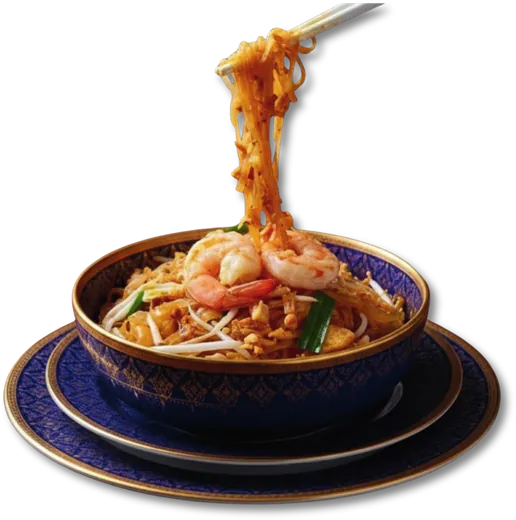
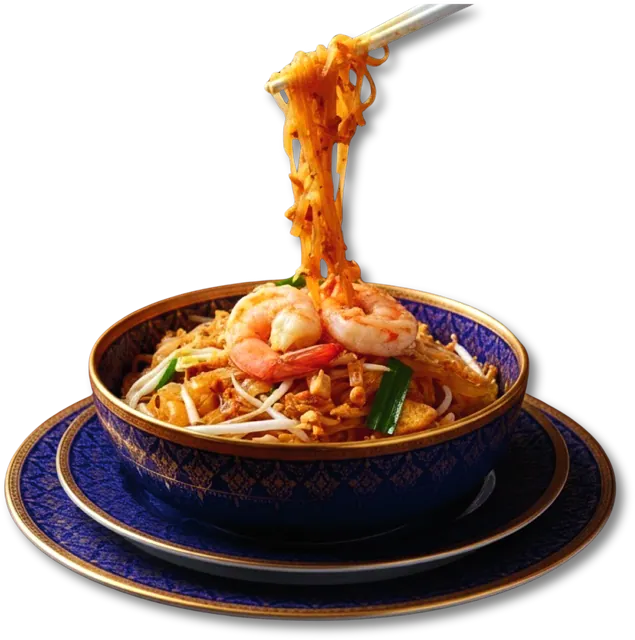
รูมเซอร์วิส: ปรับราคา 99→100, 85→80 + อัปเกรดรูปให้สวยขึ้น
- ราคาใหม่ตามเจ้าของ: จานหลักแกง/ผัดไทย ฿100 · ข้าวผัด/ไข่เจียว/ผัดซีอิ๊ว ฿80
  (อัปเดตทั้งการ์ด ข้อความออร์เดอร์ และ JSON-LD)
- รูปอาหาร: ส่งออกใหม่ความละเอียด 720px + ปรับสีอิ่ม/คอนทราสต์/ความคมให้น่ากินขึ้น
- เวทีรูป: จานรองวงกลม + สปอตไลต์นวลๆ + เงาใต้จาน ให้ภาพดูมีมิติ
  และ hover แล้วรูปขยับเบาๆ
- e2e: เช็คขั้นต่ำ ฿100 เปลี่ยนไปใช้เครื่องดื่ม ฿40 (มัสมั่น ฿100 ถึงขั้นต่ำพอดีแล้ว)

Claude-Session: https://claude.ai/code/session_012fKZaijRoSM6ejsdfdSYhf

diff --git a/services.html b/services.html
@@ -31,14 +31,14 @@
     {
       "@type": "MenuSection", "name": "จานหลัก / Main Dish",
       "hasMenuItem": [
-      { "@type": "MenuItem", "name": "ข้าวแกงมัสมั่นไก่ (Massaman Curry with Chicken & Rice)", "offers": { "@type": "Offer", "price": "99", "priceCurrency": "THB" } },
-      { "@type": "MenuItem", "name": "ข้าวแกงเขียวหวานไก่ (Green Curry with Chicken & Rice)", "offers": { "@type": "Offer", "price": "99", "priceCurrency": "THB" } },
-      { "@type": "MenuItem", "name": "ต้มข่าไก่ + ข้าวสวย (Tom Kha Gai (Chicken in Coconut Soup) & Rice)", "offers": { "@type": "Offer", "price": "99", "priceCurrency": "THB" } },
-      { "@type": "MenuItem", "name": "ข้าวพะแนงหมู (Panang Curry with Pork & Rice)", "offers": { "@type": "Offer", "price": "99", "priceCurrency": "THB" } },
-      { "@type": "MenuItem", "name": "ข้าวผัด (Fried Rice)", "offers": { "@type": "Offer", "price": "85", "priceCurrency": "THB" } },
-      { "@type": "MenuItem", "name": "ข้าวไข่เจียว (Thai Style Omelette with Rice)", "offers": { "@type": "Offer", "price": "85", "priceCurrency": "THB" } },
-      { "@type": "MenuItem", "name": "ผัดซีอิ๊ว (Pad See Ew — Stir-fried Noodles)", "offers": { "@type": "Offer", "price": "85", "priceCurrency": "THB" } },
-      { "@type": "MenuItem", "name": "ผัดไทย (Pad Thai)", "offers": { "@type": "Offer", "price": "99", "priceCurrency": "THB" } }
+      { "@type": "MenuItem", "name": "ข้าวแกงมัสมั่นไก่ (Massaman Curry with Chicken & Rice)", "offers": { "@type": "Offer", "price": "100", "priceCurrency": "THB" } },
+      { "@type": "MenuItem", "name": "ข้าวแกงเขียวหวานไก่ (Green Curry with Chicken & Rice)", "offers": { "@type": "Offer", "price": "100", "priceCurrency": "THB" } },
+      { "@type": "MenuItem", "name": "ต้มข่าไก่ + ข้าวสวย (Tom Kha Gai (Chicken in Coconut Soup) & Rice)", "offers": { "@type": "Offer", "price": "100", "priceCurrency": "THB" } },
+      { "@type": "MenuItem", "name": "ข้าวพะแนงหมู (Panang Curry with Pork & Rice)", "offers": { "@type": "Offer", "price": "100", "priceCurrency": "THB" } },
+      { "@type": "MenuItem", "name": "ข้าวผัด (Fried Rice)", "offers": { "@type": "Offer", "price": "80", "priceCurrency": "THB" } },
+      { "@type": "MenuItem", "name": "ข้าวไข่เจียว (Thai Style Omelette with Rice)", "offers": { "@type": "Offer", "price": "80", "priceCurrency": "THB" } },
+      { "@type": "MenuItem", "name": "ผัดซีอิ๊ว (Pad See Ew — Stir-fried Noodles)", "offers": { "@type": "Offer", "price": "80", "priceCurrency": "THB" } },
+      { "@type": "MenuItem", "name": "ผัดไทย (Pad Thai)", "offers": { "@type": "Offer", "price": "100", "priceCurrency": "THB" } }
       ]
     },
     {
@@ -84,9 +84,18 @@
   box-shadow:0 4px 16px rgba(62,47,35,0.06); display:flex; flex-direction:column;
   transition:transform .18s ease, box-shadow .18s ease}
 .rs-card:hover{transform:translateY(-3px); box-shadow:0 12px 26px rgba(62,47,35,0.12)}
-.rs-art{position:relative; background:#f7f1e6; background-image:radial-gradient(rgba(138,90,52,.06) 1.2px,transparent 1.2px); background-size:20px 20px;
-  padding:0.9rem; height:185px; display:flex; align-items:center; justify-content:center}
-.rs-art img{max-height:165px; width:auto; max-width:92%; object-fit:contain; display:block; filter:drop-shadow(0 8px 12px rgba(62,47,35,.18))}
+.rs-art{position:relative; overflow:hidden;
+  background:linear-gradient(160deg,#fbf6ec 0%,#f5edde 55%,#efe3cd 100%);
+  padding:0.9rem; height:195px; display:flex; align-items:center; justify-content:center}
+/* จานรองวงกลม + สปอตไลต์นวลๆ หลังรูปอาหาร ให้ภาพดูมีเวทีมีมิติ */
+.rs-art::before{content:""; position:absolute; width:230px; height:230px; border-radius:50%;
+  background:radial-gradient(circle at 50% 42%, #fffdf8 0%, #fdf8ee 45%, rgba(253,248,238,0) 72%);
+  box-shadow:inset 0 0 0 1px rgba(138,90,52,.07)}
+.rs-art::after{content:""; position:absolute; left:50%; bottom:14px; transform:translateX(-50%);
+  width:150px; height:26px; border-radius:50%; background:radial-gradient(ellipse at center, rgba(62,47,35,.16), rgba(62,47,35,0) 68%)}
+.rs-art img{position:relative; z-index:1; max-height:172px; width:auto; max-width:92%; object-fit:contain; display:block;
+  filter:drop-shadow(0 10px 14px rgba(62,47,35,.22)); transition:transform .28s ease}
+.rs-card:hover .rs-art img{transform:scale(1.05) translateY(-3px)}
 .rs-badge{position:absolute; top:10px; left:10px; background:var(--gold-dark); color:#fff8ef; font-family:"Prompt",sans-serif;
   font-size:0.68rem; font-weight:700; letter-spacing:0.06em; padding:0.25rem 0.6rem; border-radius:999px; box-shadow:0 3px 8px rgba(62,47,35,.25)}
 .rs-body{padding:0.9rem 1.1rem 1.1rem; display:flex; flex-direction:column; flex:1}
@@ -145,8 +154,10 @@
   background:var(--gold-dark); color:#fff; font-family:"Prompt",sans-serif; font-weight:700; font-size:0.9rem; margin-bottom:0.5rem}
 .rs-step p{font-size:0.86rem; color:var(--text); line-height:1.6}
 @media (max-width:640px){ .rs-grid{grid-template-columns:1fr 1fr; gap:0.7rem}
-  .rs-art{height:135px; padding:0.6rem}
-  .rs-art img{max-height:118px}
+  .rs-art{height:140px; padding:0.6rem}
+  .rs-art::before{width:150px; height:150px}
+  .rs-art::after{width:100px; height:18px; bottom:10px}
+  .rs-art img{max-height:122px}
   .rs-body{padding:0.65rem 0.7rem 0.8rem}
   .rs-body h3{font-size:0.92rem}
   .rs-desc{display:none}
@@ -187,86 +198,86 @@
 <div class="rs-wrap">
   <div class="rs-sec"><h2 data-th="จานหลัก · Main Dish" data-en="Main Dish · จานหลัก">จานหลัก · Main Dish</h2></div>
   <div class="rs-grid">
-    <article class="rs-card" data-id="massaman" data-price="99" data-name-th="ข้าวแกงมัสมั่นไก่" data-name-en="Massaman Curry with Chicken &amp; Rice">
-      <div class="rs-art"><img src="images/services/massaman.webp" alt="ข้าวแกงมัสมั่นไก่ — Massaman Curry with Chicken &amp; Rice" width="520" height="414" loading="lazy" decoding="async"></div>
+    <article class="rs-card" data-id="massaman" data-price="100" data-name-th="ข้าวแกงมัสมั่นไก่" data-name-en="Massaman Curry with Chicken &amp; Rice">
+      <div class="rs-art"><img src="images/services/massaman.webp" alt="ข้าวแกงมัสมั่นไก่ — Massaman Curry with Chicken &amp; Rice" width="640" height="510" loading="lazy" decoding="async"></div>
       <div class="rs-body">
         <h3 data-th="ข้าวแกงมัสมั่นไก่" data-en="Massaman Curry with Chicken &amp; Rice">ข้าวแกงมัสมั่นไก่</h3>
         <div class="rs-en" data-th="Massaman Curry with Chicken &amp; Rice" data-en="ข้าวแกงมัสมั่นไก่">Massaman Curry with Chicken &amp; Rice</div>
         <p class="rs-desc" data-th="แกงไทยชื่อดังระดับโลก เข้มข้นหอมมัน หวานอ่อนๆ ไก่นุ่มกับมันฝรั่ง (ไม่เผ็ด)" data-en="World-famous Thai curry. Rich, creamy, and mildly sweet with chicken and potatoes. (Non-spicy)">แกงไทยชื่อดังระดับโลก เข้มข้นหอมมัน หวานอ่อนๆ ไก่นุ่มกับมันฝรั่ง (ไม่เผ็ด)</p>
-        <div class="rs-foot"><span class="rs-price">฿99</span>
+        <div class="rs-foot"><span class="rs-price">฿100</span>
           <div class="qty" data-id="massaman"><button type="button" class="qminus" aria-label="ลดจำนวน">−</button><b class="qn">0</b><button type="button" class="qplus" aria-label="เพิ่มจำนวน">+</button></div></div>
       </div>
     </article>
-    <article class="rs-card" data-id="green-curry" data-price="99" data-name-th="ข้าวแกงเขียวหวานไก่" data-name-en="Green Curry with Chicken &amp; Rice">
-      <div class="rs-art"><img src="images/services/green-curry.webp" alt="ข้าวแกงเขียวหวานไก่ — Green Curry with Chicken &amp; Rice" width="520" height="462" loading="lazy" decoding="async"></div>
+    <article class="rs-card" data-id="green-curry" data-price="100" data-name-th="ข้าวแกงเขียวหวานไก่" data-name-en="Green Curry with Chicken &amp; Rice">
+      <div class="rs-art"><img src="images/services/green-curry.webp" alt="ข้าวแกงเขียวหวานไก่ — Green Curry with Chicken &amp; Rice" width="640" height="568" loading="lazy" decoding="async"></div>
       <div class="rs-body">
         <h3 data-th="ข้าวแกงเขียวหวานไก่" data-en="Green Curry with Chicken &amp; Rice">ข้าวแกงเขียวหวานไก่</h3>
         <div class="rs-en" data-th="Green Curry with Chicken &amp; Rice" data-en="ข้าวแกงเขียวหวานไก่">Green Curry with Chicken &amp; Rice</div>
         <p class="rs-desc" data-th="แกงเขียวหวานตำรับไทยแท้ กะทิหอมสมุนไพร (เผ็ดกลาง)" data-en="Authentic Thai green curry with coconut milk and aromatic herbs. (Spicy level: medium)">แกงเขียวหวานตำรับไทยแท้ กะทิหอมสมุนไพร (เผ็ดกลาง)</p>
-        <div class="rs-foot"><span class="rs-price">฿99</span>
+        <div class="rs-foot"><span class="rs-price">฿100</span>
           <div class="qty" data-id="green-curry"><button type="button" class="qminus" aria-label="ลดจำนวน">−</button><b class="qn">0</b><button type="button" class="qplus" aria-label="เพิ่มจำนวน">+</button></div></div>
       </div>
     </article>
-    <article class="rs-card" data-id="tom-kha" data-price="99" data-name-th="ต้มข่าไก่ + ข้าวสวย" data-name-en="Tom Kha Gai (Chicken in Coconut Soup) &amp; Rice">
-      <div class="rs-art"><img src="images/services/tom-kha.webp" alt="ต้มข่าไก่ + ข้าวสวย — Tom Kha Gai (Chicken in Coconut Soup) &amp; Rice" width="520" height="518" loading="lazy" decoding="async"></div>
+    <article class="rs-card" data-id="tom-kha" data-price="100" data-name-th="ต้มข่าไก่ + ข้าวสวย" data-name-en="Tom Kha Gai (Chicken in Coconut Soup) &amp; Rice">
+      <div class="rs-art"><img src="images/services/tom-kha.webp" alt="ต้มข่าไก่ + ข้าวสวย — Tom Kha Gai (Chicken in Coconut Soup) &amp; Rice" width="640" height="637" loading="lazy" decoding="async"></div>
       <div class="rs-body">
         <h3 data-th="ต้มข่าไก่ + ข้าวสวย" data-en="Tom Kha Gai (Chicken in Coconut Soup) &amp; Rice">ต้มข่าไก่ + ข้าวสวย</h3>
         <div class="rs-en" data-th="Tom Kha Gai (Chicken in Coconut Soup) &amp; Rice" data-en="ต้มข่าไก่ + ข้าวสวย">Tom Kha Gai (Chicken in Coconut Soup) &amp; Rice</div>
         <p class="rs-desc" data-th="ซุปกะทิหอมข่า ใบมะกรูด มะนาว ซดคล่องคอ สดชื่น (เผ็ดน้อย)" data-en="Aromatic coconut soup with chicken, galangal, and lime. Refreshing and comforting. (Mild)">ซุปกะทิหอมข่า ใบมะกรูด มะนาว ซดคล่องคอ สดชื่น (เผ็ดน้อย)</p>
-        <div class="rs-foot"><span class="rs-price">฿99</span>
+        <div class="rs-foot"><span class="rs-price">฿100</span>
           <div class="qty" data-id="tom-kha"><button type="button" class="qminus" aria-label="ลดจำนวน">−</button><b class="qn">0</b><button type="button" class="qplus" aria-label="เพิ่มจำนวน">+</button></div></div>
       </div>
     </article>
-    <article class="rs-card" data-id="panang" data-price="99" data-name-th="ข้าวพะแนงหมู" data-name-en="Panang Curry with Pork &amp; Rice">
-      <div class="rs-art"><img src="images/services/panang.webp" alt="ข้าวพะแนงหมู — Panang Curry with Pork &amp; Rice" width="507" height="520" loading="lazy" decoding="async"></div>
+    <article class="rs-card" data-id="panang" data-price="100" data-name-th="ข้าวพะแนงหมู" data-name-en="Panang Curry with Pork &amp; Rice">
+      <div class="rs-art"><img src="images/services/panang.webp" alt="ข้าวพะแนงหมู — Panang Curry with Pork &amp; Rice" width="624" height="640" loading="lazy" decoding="async"></div>
       <div class="rs-body">
         <h3 data-th="ข้าวพะแนงหมู" data-en="Panang Curry with Pork &amp; Rice">ข้าวพะแนงหมู</h3>
         <div class="rs-en" data-th="Panang Curry with Pork &amp; Rice" data-en="ข้าวพะแนงหมู">Panang Curry with Pork &amp; Rice</div>
         <p class="rs-desc" data-th="พะแนงเข้มข้น หมูนุ่ม หอมใบมะกรูด (เผ็ดกลาง)" data-en="Thick and rich red curry with tender pork and kaffir lime leaves. (Spicy level: medium)">พะแนงเข้มข้น หมูนุ่ม หอมใบมะกรูด (เผ็ดกลาง)</p>
-        <div class="rs-foot"><span class="rs-price">฿99</span>
+        <div class="rs-foot"><span class="rs-price">฿100</span>
           <div class="qty" data-id="panang"><button type="button" class="qminus" aria-label="ลดจำนวน">−</button><b class="qn">0</b><button type="button" class="qplus" aria-label="เพิ่มจำนวน">+</button></div></div>
       </div>
     </article>
-    <article class="rs-card" data-id="fried-rice" data-price="85" data-name-th="ข้าวผัด" data-name-en="Fried Rice" data-variants="หมู|Pork,ไก่|Chicken,เบคอน|Bacon">
-      <div class="rs-art"><img src="images/services/fried-rice.webp" alt="ข้าวผัด — Fried Rice" width="520" height="334" loading="lazy" decoding="async"></div>
+    <article class="rs-card" data-id="fried-rice" data-price="80" data-name-th="ข้าวผัด" data-name-en="Fried Rice" data-variants="หมู|Pork,ไก่|Chicken,เบคอน|Bacon">
+      <div class="rs-art"><img src="images/services/fried-rice.webp" alt="ข้าวผัด — Fried Rice" width="640" height="411" loading="lazy" decoding="async"></div>
       <div class="rs-body">
         <h3 data-th="ข้าวผัด" data-en="Fried Rice">ข้าวผัด</h3>
         <div class="rs-en" data-th="Fried Rice" data-en="ข้าวผัด">Fried Rice</div>
         <p class="rs-desc" data-th="ข้าวผัดไข่สไตล์ไทย หอมกระทะ เลือกหมู ไก่ หรือเบคอน (ไม่เผ็ด)" data-en="Thai style fried rice with egg. Choose pork, chicken, or bacon. (Non-spicy)">ข้าวผัดไข่สไตล์ไทย หอมกระทะ เลือกหมู ไก่ หรือเบคอน (ไม่เผ็ด)</p>
         <select class="rs-var" data-id="fried-rice" aria-label="เลือกแบบ"></select>
-        <div class="rs-foot"><span class="rs-price">฿85</span>
+        <div class="rs-foot"><span class="rs-price">฿80</span>
           <div class="qty" data-id="fried-rice"><button type="button" class="qminus" aria-label="ลดจำนวน">−</button><b class="qn">0</b><button type="button" class="qplus" aria-label="เพิ่มจำนวน">+</button></div></div>
       </div>
     </article>
-    <article class="rs-card" data-id="omelette" data-price="85" data-name-th="ข้าวไข่เจียว" data-name-en="Thai Style Omelette with Rice">
-      <div class="rs-art"><img src="images/services/omelette.webp" alt="ข้าวไข่เจียว — Thai Style Omelette with Rice" width="520" height="386" loading="lazy" decoding="async"></div>
+    <article class="rs-card" data-id="omelette" data-price="80" data-name-th="ข้าวไข่เจียว" data-name-en="Thai Style Omelette with Rice">
+      <div class="rs-art"><img src="images/services/omelette.webp" alt="ข้าวไข่เจียว — Thai Style Omelette with Rice" width="640" height="475" loading="lazy" decoding="async"></div>
       <div class="rs-body">
         <h3 data-th="ข้าวไข่เจียว" data-en="Thai Style Omelette with Rice">ข้าวไข่เจียว</h3>
         <div class="rs-en" data-th="Thai Style Omelette with Rice" data-en="ข้าวไข่เจียว">Thai Style Omelette with Rice</div>
         <p class="rs-desc" data-th="ไข่เจียวฟูขอบกรอบ ราดข้าวสวยร้อนๆ (ไม่เผ็ด)" data-en="Crispy and fluffy Thai omelette over steamed rice. (Non-spicy)">ไข่เจียวฟูขอบกรอบ ราดข้าวสวยร้อนๆ (ไม่เผ็ด)</p>
-        <div class="rs-foot"><span class="rs-price">฿85</span>
+        <div class="rs-foot"><span class="rs-price">฿80</span>
           <div class="qty" data-id="omelette"><button type="button" class="qminus" aria-label="ลดจำนวน">−</button><b class="qn">0</b><button type="button" class="qplus" aria-label="เพิ่มจำนวน">+</button></div></div>
       </div>
     </article>
-    <article class="rs-card" data-id="pad-see-ew" data-price="85" data-name-th="ผัดซีอิ๊ว" data-name-en="Pad See Ew — Stir-fried Noodles" data-variants="หมู|Pork,ไก่|Chicken,ผัก|Veggie">
-      <div class="rs-art"><img src="images/services/pad-see-ew.webp" alt="ผัดซีอิ๊ว — Pad See Ew — Stir-fried Noodles" width="520" height="336" loading="lazy" decoding="async"></div>
+    <article class="rs-card" data-id="pad-see-ew" data-price="80" data-name-th="ผัดซีอิ๊ว" data-name-en="Pad See Ew — Stir-fried Noodles" data-variants="หมู|Pork,ไก่|Chicken,ผัก|Veggie">
+      <div class="rs-art"><img src="images/services/pad-see-ew.webp" alt="ผัดซีอิ๊ว — Pad See Ew — Stir-fried Noodles" width="640" height="413" loading="lazy" decoding="async"></div>
       <div class="rs-body">
         <h3 data-th="ผัดซีอิ๊ว" data-en="Pad See Ew — Stir-fried Noodles">ผัดซีอิ๊ว</h3>
         <div class="rs-en" data-th="Pad See Ew — Stir-fried Noodles" data-en="ผัดซีอิ๊ว">Pad See Ew — Stir-fried Noodles</div>
         <p class="rs-desc" data-th="เส้นใหญ่ผัดซีอิ๊วกับไข่ หอมกระทะ เลือกหมู ไก่ หรือผัก" data-en="Stir-fried flat noodles with egg and sweet soy sauce. Choose pork, chicken, or veggie.">เส้นใหญ่ผัดซีอิ๊วกับไข่ หอมกระทะ เลือกหมู ไก่ หรือผัก</p>
         <select class="rs-var" data-id="pad-see-ew" aria-label="เลือกแบบ"></select>
-        <div class="rs-foot"><span class="rs-price">฿85</span>
+        <div class="rs-foot"><span class="rs-price">฿80</span>
           <div class="qty" data-id="pad-see-ew"><button type="button" class="qminus" aria-label="ลดจำนวน">−</button><b class="qn">0</b><button type="button" class="qplus" aria-label="เพิ่มจำนวน">+</button></div></div>
       </div>
     </article>
-    <article class="rs-card" data-id="pad-thai" data-price="99" data-name-th="ผัดไทย" data-name-en="Pad Thai" data-variants="กุ้ง|Prawn,หมู|Pork,ไก่|Chicken">
-      <div class="rs-art"><span class="rs-badge">⭐ MUST TRY</span><img src="images/services/pad-thai.webp" alt="ผัดไทย — Pad Thai" width="516" height="520" loading="lazy" decoding="async"></div>
+    <article class="rs-card" data-id="pad-thai" data-price="100" data-name-th="ผัดไทย" data-name-en="Pad Thai" data-variants="กุ้ง|Prawn,หมู|Pork,ไก่|Chicken">
+      <div class="rs-art"><span class="rs-badge">⭐ MUST TRY</span><img src="images/services/pad-thai.webp" alt="ผัดไทย — Pad Thai" width="635" height="640" loading="lazy" decoding="async"></div>
       <div class="rs-body">
         <h3 data-th="ผัดไทย" data-en="Pad Thai">ผัดไทย</h3>
         <div class="rs-en" data-th="Pad Thai" data-en="ผัดไทย">Pad Thai</div>
         <p class="rs-desc" data-th="ผัดไทยซอสมะขาม ถั่วลิสงคั่ว จานเด็ดประจำบ้าน เลือกกุ้ง หมู หรือไก่" data-en="Signature Thai stir-fried noodles with tamarind sauce and peanuts. Choose prawn, pork, or chicken.">ผัดไทยซอสมะขาม ถั่วลิสงคั่ว จานเด็ดประจำบ้าน เลือกกุ้ง หมู หรือไก่</p>
         <select class="rs-var" data-id="pad-thai" aria-label="เลือกแบบ"></select>
-        <div class="rs-foot"><span class="rs-price">฿99</span>
+        <div class="rs-foot"><span class="rs-price">฿100</span>
           <div class="qty" data-id="pad-thai"><button type="button" class="qminus" aria-label="ลดจำนวน">−</button><b class="qn">0</b><button type="button" class="qplus" aria-label="เพิ่มจำนวน">+</button></div></div>
       </div>
     </article>
@@ -274,7 +285,7 @@
   <div class="rs-sec"><h2 data-th="ของหวาน · Siam Sweets" data-en="Desserts · Siam Sweets">ของหวาน · Siam Sweets</h2></div>
   <div class="rs-grid">
     <article class="rs-card" data-id="bua-loy" data-price="50" data-name-th="บัวลอยเผือกมะพร้าวอ่อน" data-name-en="Taro Bua Loy in Coconut Milk">
-      <div class="rs-art"><img src="images/services/bua-loy.webp" alt="บัวลอยเผือกมะพร้าวอ่อน — Taro Bua Loy in Coconut Milk" width="520" height="411" loading="lazy" decoding="async"></div>
+      <div class="rs-art"><img src="images/services/bua-loy.webp" alt="บัวลอยเผือกมะพร้าวอ่อน — Taro Bua Loy in Coconut Milk" width="593" height="469" loading="lazy" decoding="async"></div>
       <div class="rs-body">
         <h3 data-th="บัวลอยเผือกมะพร้าวอ่อน" data-en="Taro Bua Loy in Coconut Milk">บัวลอยเผือกมะพร้าวอ่อน</h3>
         <div class="rs-en" data-th="Taro Bua Loy in Coconut Milk" data-en="บัวลอยเผือกมะพร้าวอ่อน">Taro Bua Loy in Coconut Milk</div>
@@ -284,7 +295,7 @@
       </div>
     </article>
     <article class="rs-card" data-id="banana-coconut" data-price="50" data-name-th="กล้วยบวชชี" data-name-en="Bananas in Coconut Milk">
-      <div class="rs-art"><img src="images/services/banana-coconut.webp" alt="กล้วยบวชชี — Bananas in Coconut Milk" width="520" height="444" loading="lazy" decoding="async"></div>
+      <div class="rs-art"><img src="images/services/banana-coconut.webp" alt="กล้วยบวชชี — Bananas in Coconut Milk" width="640" height="547" loading="lazy" decoding="async"></div>
       <div class="rs-body">
         <h3 data-th="กล้วยบวชชี" data-en="Bananas in Coconut Milk">กล้วยบวชชี</h3>
         <div class="rs-en" data-th="Bananas in Coconut Milk" data-en="กล้วยบวชชี">Bananas in Coconut Milk</div>
@@ -294,7 +305,7 @@
       </div>
     </article>
     <article class="rs-card" data-id="ba-bin" data-price="50" data-name-th="ขนมบ้าบิ่น" data-name-en="Ba Bin (Thai Coconut Pancake)">
-      <div class="rs-art"><img src="images/services/ba-bin.webp" alt="ขนมบ้าบิ่น — Ba Bin (Thai Coconut Pancake)" width="470" height="520" loading="lazy" decoding="async"></div>
+      <div class="rs-art"><img src="images/services/ba-bin.webp" alt="ขนมบ้าบิ่น — Ba Bin (Thai Coconut Pancake)" width="579" height="640" loading="lazy" decoding="async"></div>
       <div class="rs-body">
         <h3 data-th="ขนมบ้าบิ่น" data-en="Ba Bin (Thai Coconut Pancake)">ขนมบ้าบิ่น</h3>
         <div class="rs-en" data-th="Ba Bin (Thai Coconut Pancake)" data-en="ขนมบ้าบิ่น">Ba Bin (Thai Coconut Pancake)</div>
@@ -304,7 +315,7 @@
       </div>
     </article>
     <article class="rs-card" data-id="coconut-jelly" data-price="50" data-name-th="วุ้นมะพร้าว" data-name-en="Coconut Jelly">
-      <div class="rs-art"><img src="images/services/coconut-jelly.webp" alt="วุ้นมะพร้าว — Coconut Jelly" width="520" height="405" loading="lazy" decoding="async"></div>
+      <div class="rs-art"><img src="images/services/coconut-jelly.webp" alt="วุ้นมะพร้าว — Coconut Jelly" width="640" height="498" loading="lazy" decoding="async"></div>
       <div class="rs-body">
         <h3 data-th="วุ้นมะพร้าว" data-en="Coconut Jelly">วุ้นมะพร้าว</h3>
         <div class="rs-en" data-th="Coconut Jelly" data-en="วุ้นมะพร้าว">Coconut Jelly</div>
@@ -317,7 +328,7 @@
   <div class="rs-sec"><h2 data-th="เครื่องดื่ม · House-blend" data-en="Drinks · House-blend">เครื่องดื่ม · House-blend</h2></div>
   <div class="rs-grid">
     <article class="rs-card" data-id="americano" data-price="40" data-name-th="อเมริกาโน่เย็น" data-name-en="Iced Americano">
-      <div class="rs-art"><img src="images/services/americano.webp" alt="อเมริกาโน่เย็น — Iced Americano" width="431" height="520" loading="lazy" decoding="async"></div>
+      <div class="rs-art"><img src="images/services/americano.webp" alt="อเมริกาโน่เย็น — Iced Americano" width="531" height="640" loading="lazy" decoding="async"></div>
       <div class="rs-body">
         <h3 data-th="อเมริกาโน่เย็น" data-en="Iced Americano">อเมริกาโน่เย็น</h3>
         <div class="rs-en" data-th="Iced Americano" data-en="อเมริกาโน่เย็น">Iced Americano</div>
@@ -337,7 +348,7 @@
       </div>
     </article>
     <article class="rs-card" data-id="orange-americano" data-price="40" data-name-th="อเมริกาโน่ส้ม" data-name-en="Iced Orange Americano">
-      <div class="rs-art"><img src="images/services/orange-americano.webp" alt="อเมริกาโน่ส้ม — Iced Orange Americano" width="396" height="520" loading="lazy" decoding="async"></div>
+      <div class="rs-art"><img src="images/services/orange-americano.webp" alt="อเมริกาโน่ส้ม — Iced Orange Americano" width="488" height="640" loading="lazy" decoding="async"></div>
       <div class="rs-body">
         <h3 data-th="อเมริกาโน่ส้ม" data-en="Iced Orange Americano">อเมริกาโน่ส้ม</h3>
         <div class="rs-en" data-th="Iced Orange Americano" data-en="อเมริกาโน่ส้ม">Iced Orange Americano</div>
@@ -357,7 +368,7 @@
       </div>
     </article>
     <article class="rs-card" data-id="cappuccino" data-price="40" data-name-th="คาปูชิโน่เย็น" data-name-en="Iced Cappuccino">
-      <div class="rs-art"><img src="images/services/cappuccino.webp" alt="คาปูชิโน่เย็น — Iced Cappuccino" width="331" height="520" loading="lazy" decoding="async"></div>
+      <div class="rs-art"><img src="images/services/cappuccino.webp" alt="คาปูชิโน่เย็น — Iced Cappuccino" width="407" height="640" loading="lazy" decoding="async"></div>
       <div class="rs-body">
         <h3 data-th="คาปูชิโน่เย็น" data-en="Iced Cappuccino">คาปูชิโน่เย็น</h3>
         <div class="rs-en" data-th="Iced Cappuccino" data-en="คาปูชิโน่เย็น">Iced Cappuccino</div>
@@ -367,7 +378,7 @@
       </div>
     </article>
     <article class="rs-card" data-id="caramel-macchiato" data-price="40" data-name-th="คาราเมลมัคคิอาโต้เย็น" data-name-en="Iced Caramel Macchiato">
-      <div class="rs-art"><img src="images/services/caramel-macchiato.webp" alt="คาราเมลมัคคิอาโต้เย็น — Iced Caramel Macchiato" width="370" height="520" loading="lazy" decoding="async"></div>
+      <div class="rs-art"><img src="images/services/caramel-macchiato.webp" alt="คาราเมลมัคคิอาโต้เย็น — Iced Caramel Macchiato" width="404" height="568" loading="lazy" decoding="async"></div>
       <div class="rs-body">
         <h3 data-th="คาราเมลมัคคิอาโต้เย็น" data-en="Iced Caramel Macchiato">คาราเมลมัคคิอาโต้เย็น</h3>
         <div class="rs-en" data-th="Iced Caramel Macchiato" data-en="คาราเมลมัคคิอาโต้เย็น">Iced Caramel Macchiato</div>
@@ -377,7 +388,7 @@
       </div>
     </article>
     <article class="rs-card" data-id="thai-tea" data-price="40" data-name-th="ชาไทยเย็น" data-name-en="Thai Iced Tea">
-      <div class="rs-art"><span class="rs-badge">⭐ MUST TRY</span><img src="images/services/thai-tea.webp" alt="ชาไทยเย็น — Thai Iced Tea" width="411" height="520" loading="lazy" decoding="async"></div>
+      <div class="rs-art"><span class="rs-badge">⭐ MUST TRY</span><img src="images/services/thai-tea.webp" alt="ชาไทยเย็น — Thai Iced Tea" width="465" height="589" loading="lazy" decoding="async"></div>
       <div class="rs-body">
         <h3 data-th="ชาไทยเย็น" data-en="Thai Iced Tea">ชาไทยเย็น</h3>
         <div class="rs-en" data-th="Thai Iced Tea" data-en="ชาไทยเย็น">Thai Iced Tea</div>
@@ -387,7 +398,7 @@
       </div>
     </article>
     <article class="rs-card" data-id="green-tea" data-price="40" data-name-th="ชาเขียวเย็น" data-name-en="Iced Green Tea">
-      <div class="rs-art"><img src="images/services/green-tea.webp" alt="ชาเขียวเย็น — Iced Green Tea" width="488" height="520" loading="lazy" decoding="async"></div>
+      <div class="rs-art"><img src="images/services/green-tea.webp" alt="ชาเขียวเย็น — Iced Green Tea" width="540" height="575" loading="lazy" decoding="async"></div>
       <div class="rs-body">
         <h3 data-th="ชาเขียวเย็น" data-en="Iced Green Tea">ชาเขียวเย็น</h3>
         <div class="rs-en" data-th="Iced Green Tea" data-en="ชาเขียวเย็น">Iced Green Tea</div>
@@ -397,7 +408,7 @@
       </div>
     </article>
     <article class="rs-card" data-id="cocoa" data-price="40" data-name-th="โกโก้เย็น" data-name-en="Iced Cocoa">
-      <div class="rs-art"><img src="images/services/cocoa.webp" alt="โกโก้เย็น — Iced Cocoa" width="332" height="520" loading="lazy" decoding="async"></div>
+      <div class="rs-art"><img src="images/services/cocoa.webp" alt="โกโก้เย็น — Iced Cocoa" width="409" height="640" loading="lazy" decoding="async"></div>
       <div class="rs-body">
         <h3 data-th="โกโก้เย็น" data-en="Iced Cocoa">โกโก้เย็น</h3>
         <div class="rs-en" data-th="Iced Cocoa" data-en="โกโก้เย็น">Iced Cocoa</div>

diff --git a/tests/e2e/seo-pages.e2e.js b/tests/e2e/seo-pages.e2e.js
@@ -69,9 +69,11 @@ const server = http.createServer((req,res)=>{ const url=req.url.split("?")[0];
   await rs.evaluate(()=>{ localStorage.setItem("hoh-lang","th"); applyLang(); });
   check("services: แถบตะกร้าซ่อนตอนยังไม่เลือก", await rs.locator("#rsBar").isHidden());
   check("services: เมนูครบ 21 รายการจากเล่มเมนูจริง", await rs.locator(".rs-card").count()===21);
-  await rs.locator(".qty .qplus").first().click(); // มัสมั่น ฿99 — ยังไม่ถึงขั้นต่ำ ฿100
+  await rs.locator('.rs-card[data-id="cocoa"] .qplus').click(); // โกโก้ ฿40 — ยังไม่ถึงขั้นต่ำ ฿100
   check("services: ต่ำกว่าขั้นต่ำ ฿100 ปุ่มสั่งต้องกดไม่ได้",
     await rs.locator("#rsBarBtn").isDisabled() && /ขั้นต่ำ/.test(await rs.textContent("#rsBarSum")));
+  await rs.locator('.rs-card[data-id="cocoa"] .qminus').click(); // เอาออก แล้วสั่งของจริง
+  await rs.locator(".qty .qplus").first().click(); // มัสมั่น ฿100 × 2
   await rs.locator(".qty .qplus").first().click();
   await rs.locator(".qty .qplus").nth(1).click();
   check("services: เลือก 3 รายการ แถบตะกร้าโผล่พร้อมยอดรวม และปุ่มกดได้",
